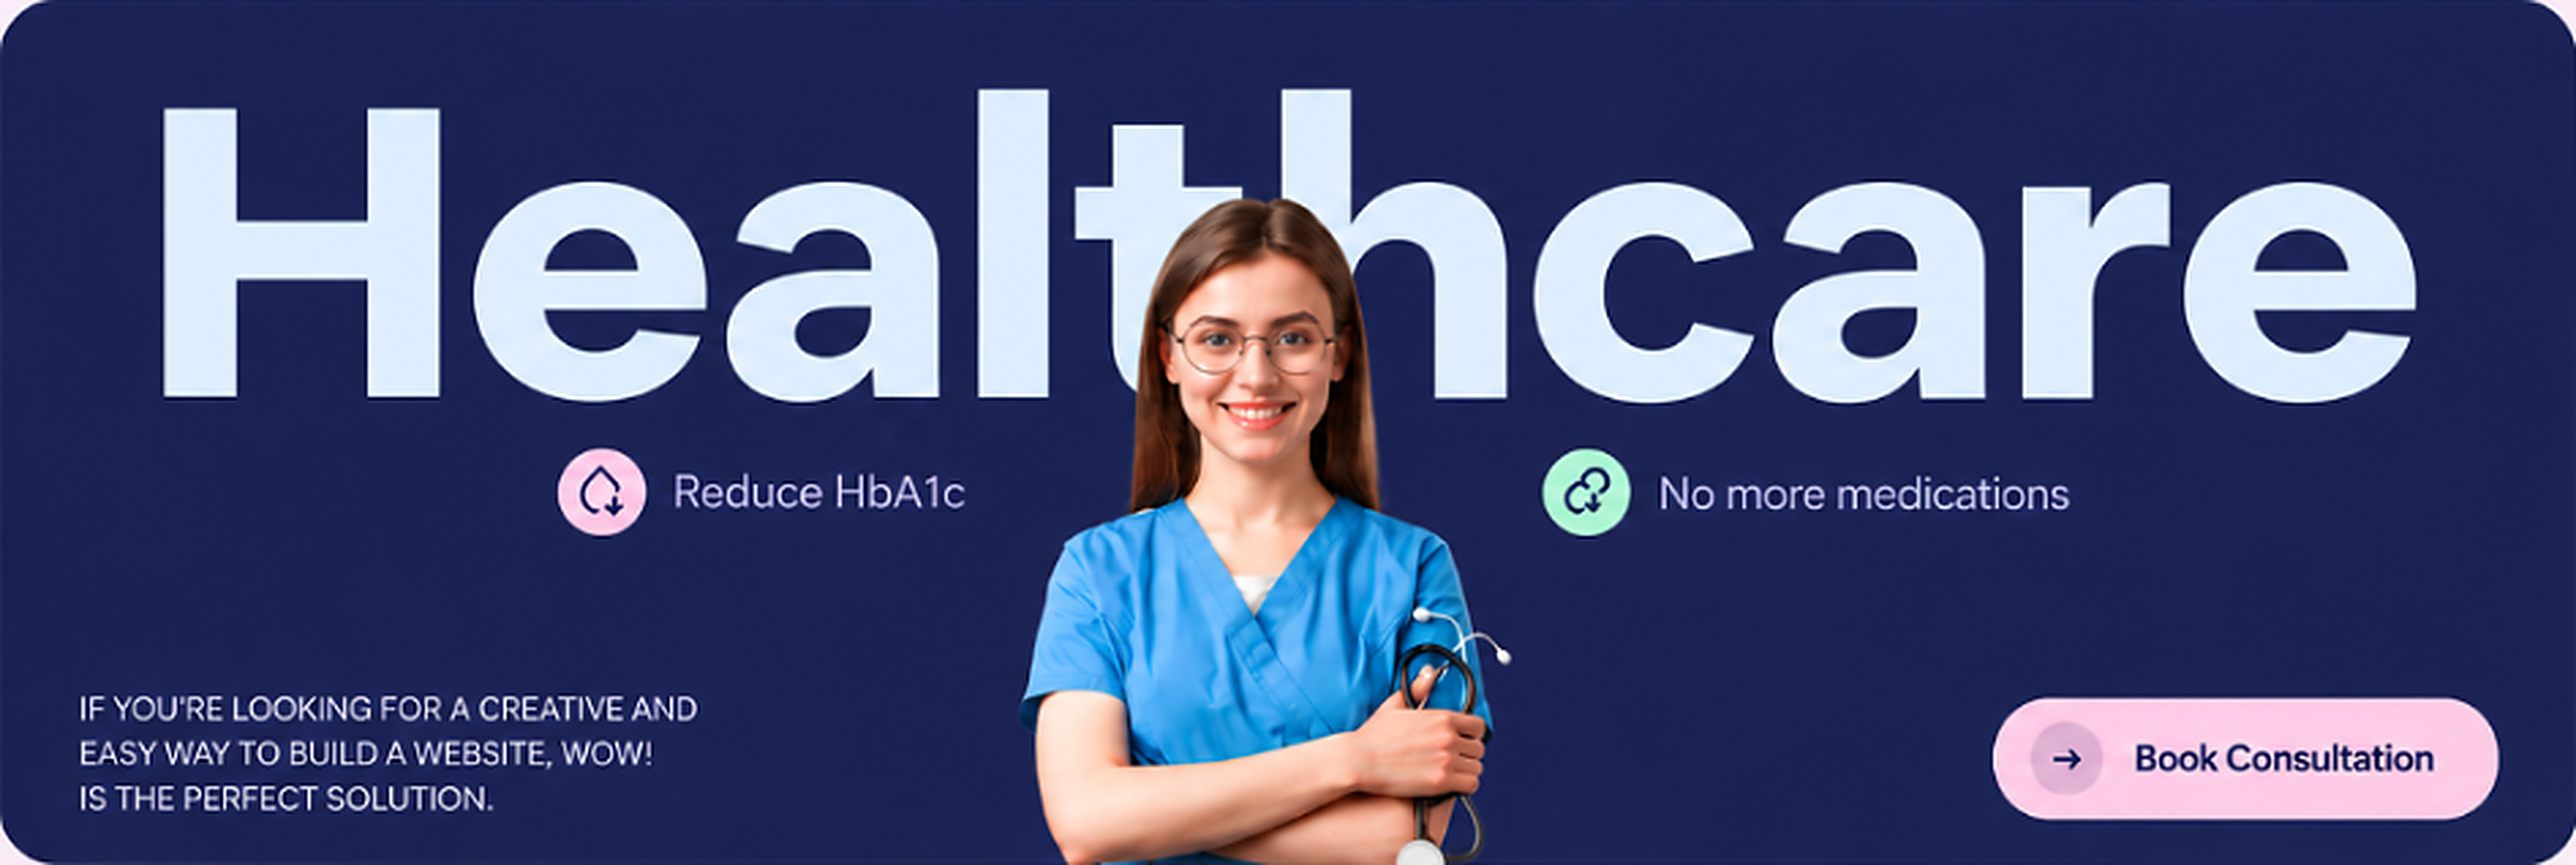
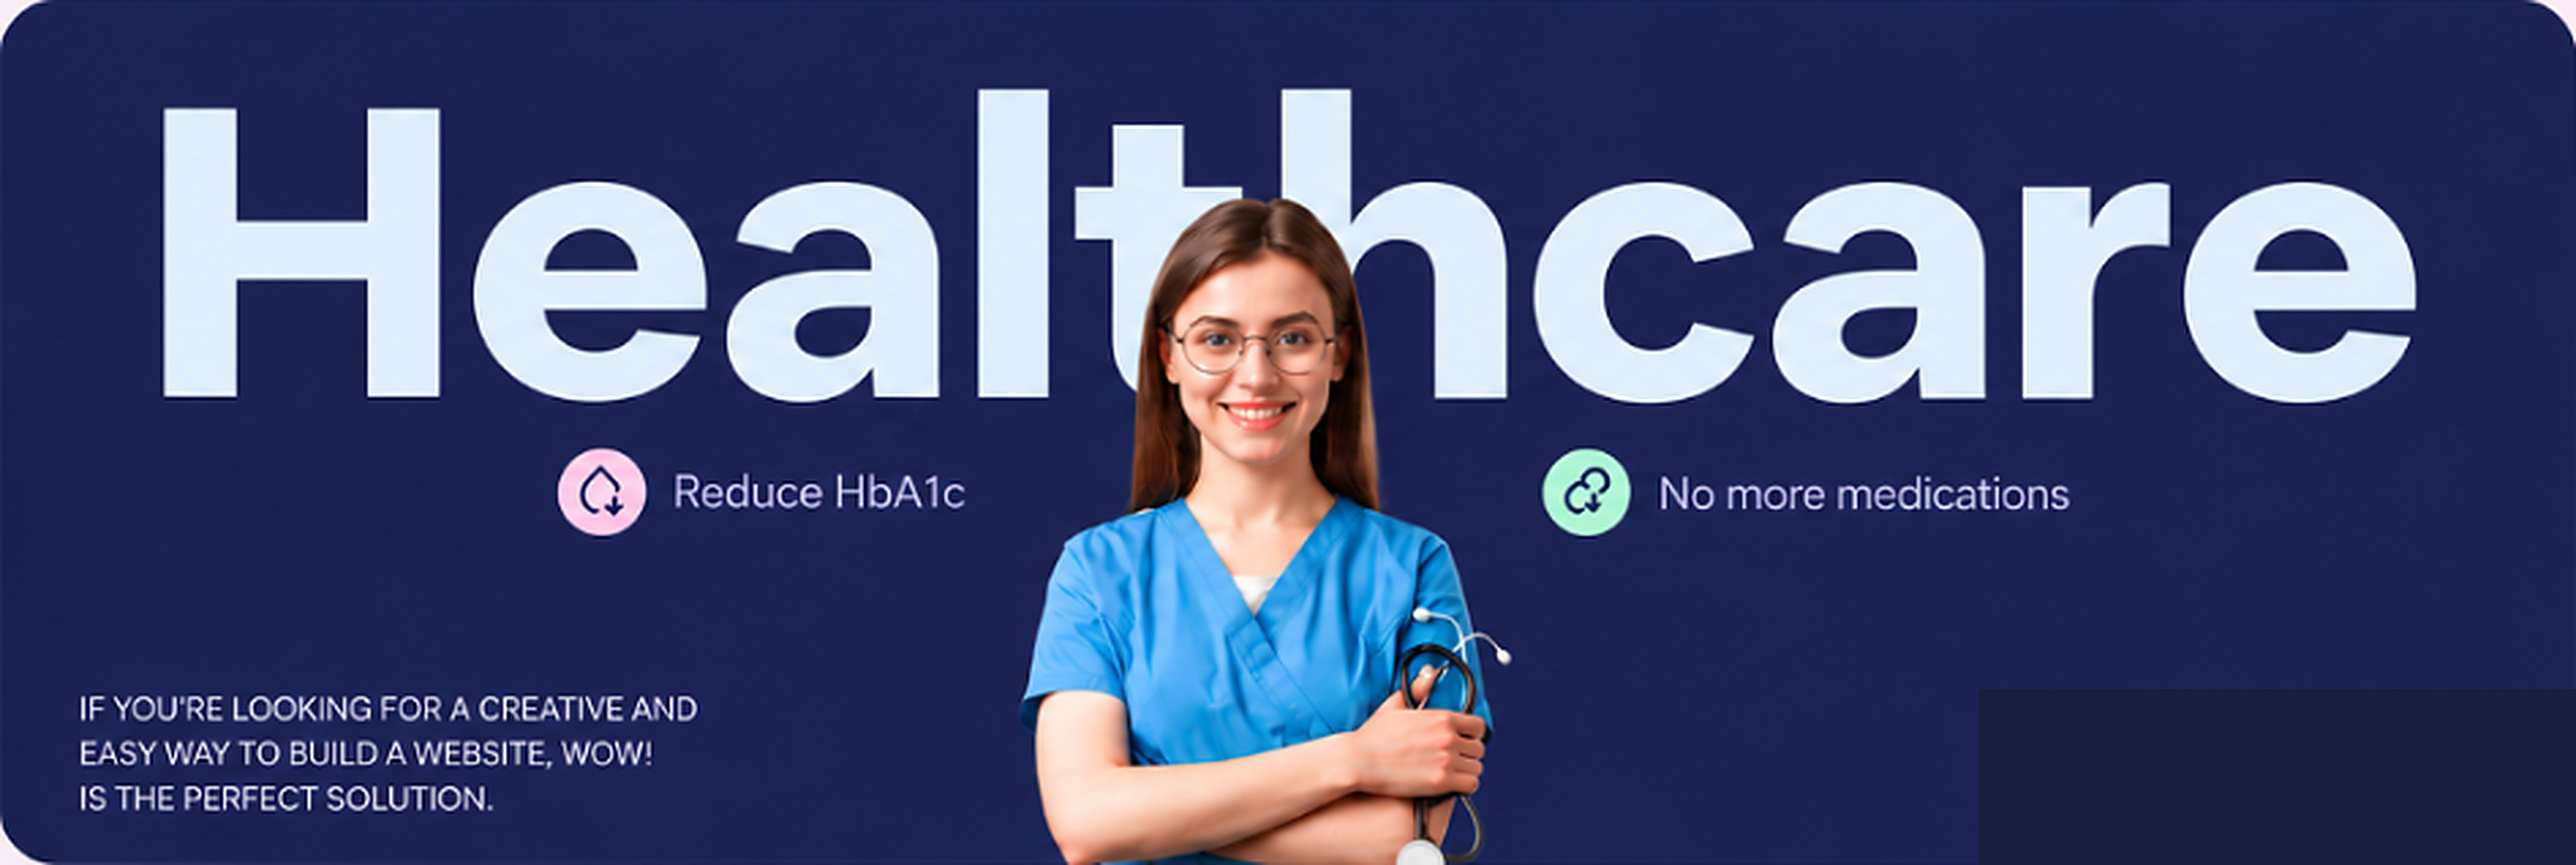
feat(ui): add interactive hover animation, glow, and physics to Book Consultation pill button

Changed region(s): [[0.7442, 0.7904, 1.0, 1.0]]

diff --git a/src/components/patient/PatientDashboard.jsx b/src/components/patient/PatientDashboard.jsx
@@ -457,7 +457,7 @@ export const PatientDashboard = () => {
             className="w-full h-auto block select-none"
           />
 
-          {/* Interactive Clickable Hotspot for "Book Consultation" Pill */}
+          {/* Ultra-HD Animated "Book Consultation" Pill Button with Rich Hover Physics */}
           <button
             onClick={(e) => {
               e.stopPropagation();
@@ -465,8 +465,21 @@ export const PatientDashboard = () => {
               navigate('/book-appointment');
             }}
             title="Book Consultation"
-            className="absolute bottom-[4.5%] right-[2.5%] w-[21%] h-[15%] rounded-full bg-transparent hover:bg-white/10 active:scale-95 transition-all cursor-pointer border-none"
-          />
+            className="absolute bottom-[4.8%] right-[2.2%] w-[21.8%] h-[14.2%] rounded-full bg-[#FBC5E3] hover:bg-[#fad0e7] text-[#171E4B] flex items-center justify-start pl-2 sm:pl-3 pr-3.5 sm:pr-5 shadow-sm hover:shadow-[0_12px_28px_rgba(251,197,227,0.55)] hover:-translate-y-0.5 hover:scale-[1.03] active:scale-[0.97] transition-all duration-300 ease-out cursor-pointer border-none group/cta overflow-hidden select-none z-20"
+          >
+            {/* Circular Arrow Badge with scale and slide animation */}
+            <div className="h-[74%] aspect-square rounded-full bg-[#171E4B] text-white flex items-center justify-center shadow-xs shrink-0 group-hover/cta:scale-110 group-hover/cta:translate-x-0.5 transition-all duration-300">
+              <ArrowRight className="w-1/2 h-1/2 text-white group-hover/cta:translate-x-0.5 transition-transform duration-200" strokeWidth={2.5} />
+            </div>
+
+            {/* Button Text */}
+            <span className="ml-2 sm:ml-2.5 font-extrabold text-[clamp(10px,1.1vw,15.5px)] leading-none tracking-tight font-['Plus_Jakarta_Sans',sans-serif] whitespace-nowrap">
+              Book Consultation
+            </span>
+
+            {/* Subtle Shimmer Highlight Sweep on Hover */}
+            <div className="absolute inset-0 -translate-x-full group-hover/cta:translate-x-full bg-gradient-to-r from-transparent via-white/40 to-transparent transition-transform duration-700 ease-in-out pointer-events-none" />
+          </button>
 
           {/* Interactive Clickable Hotspots for Badges */}
           <button
